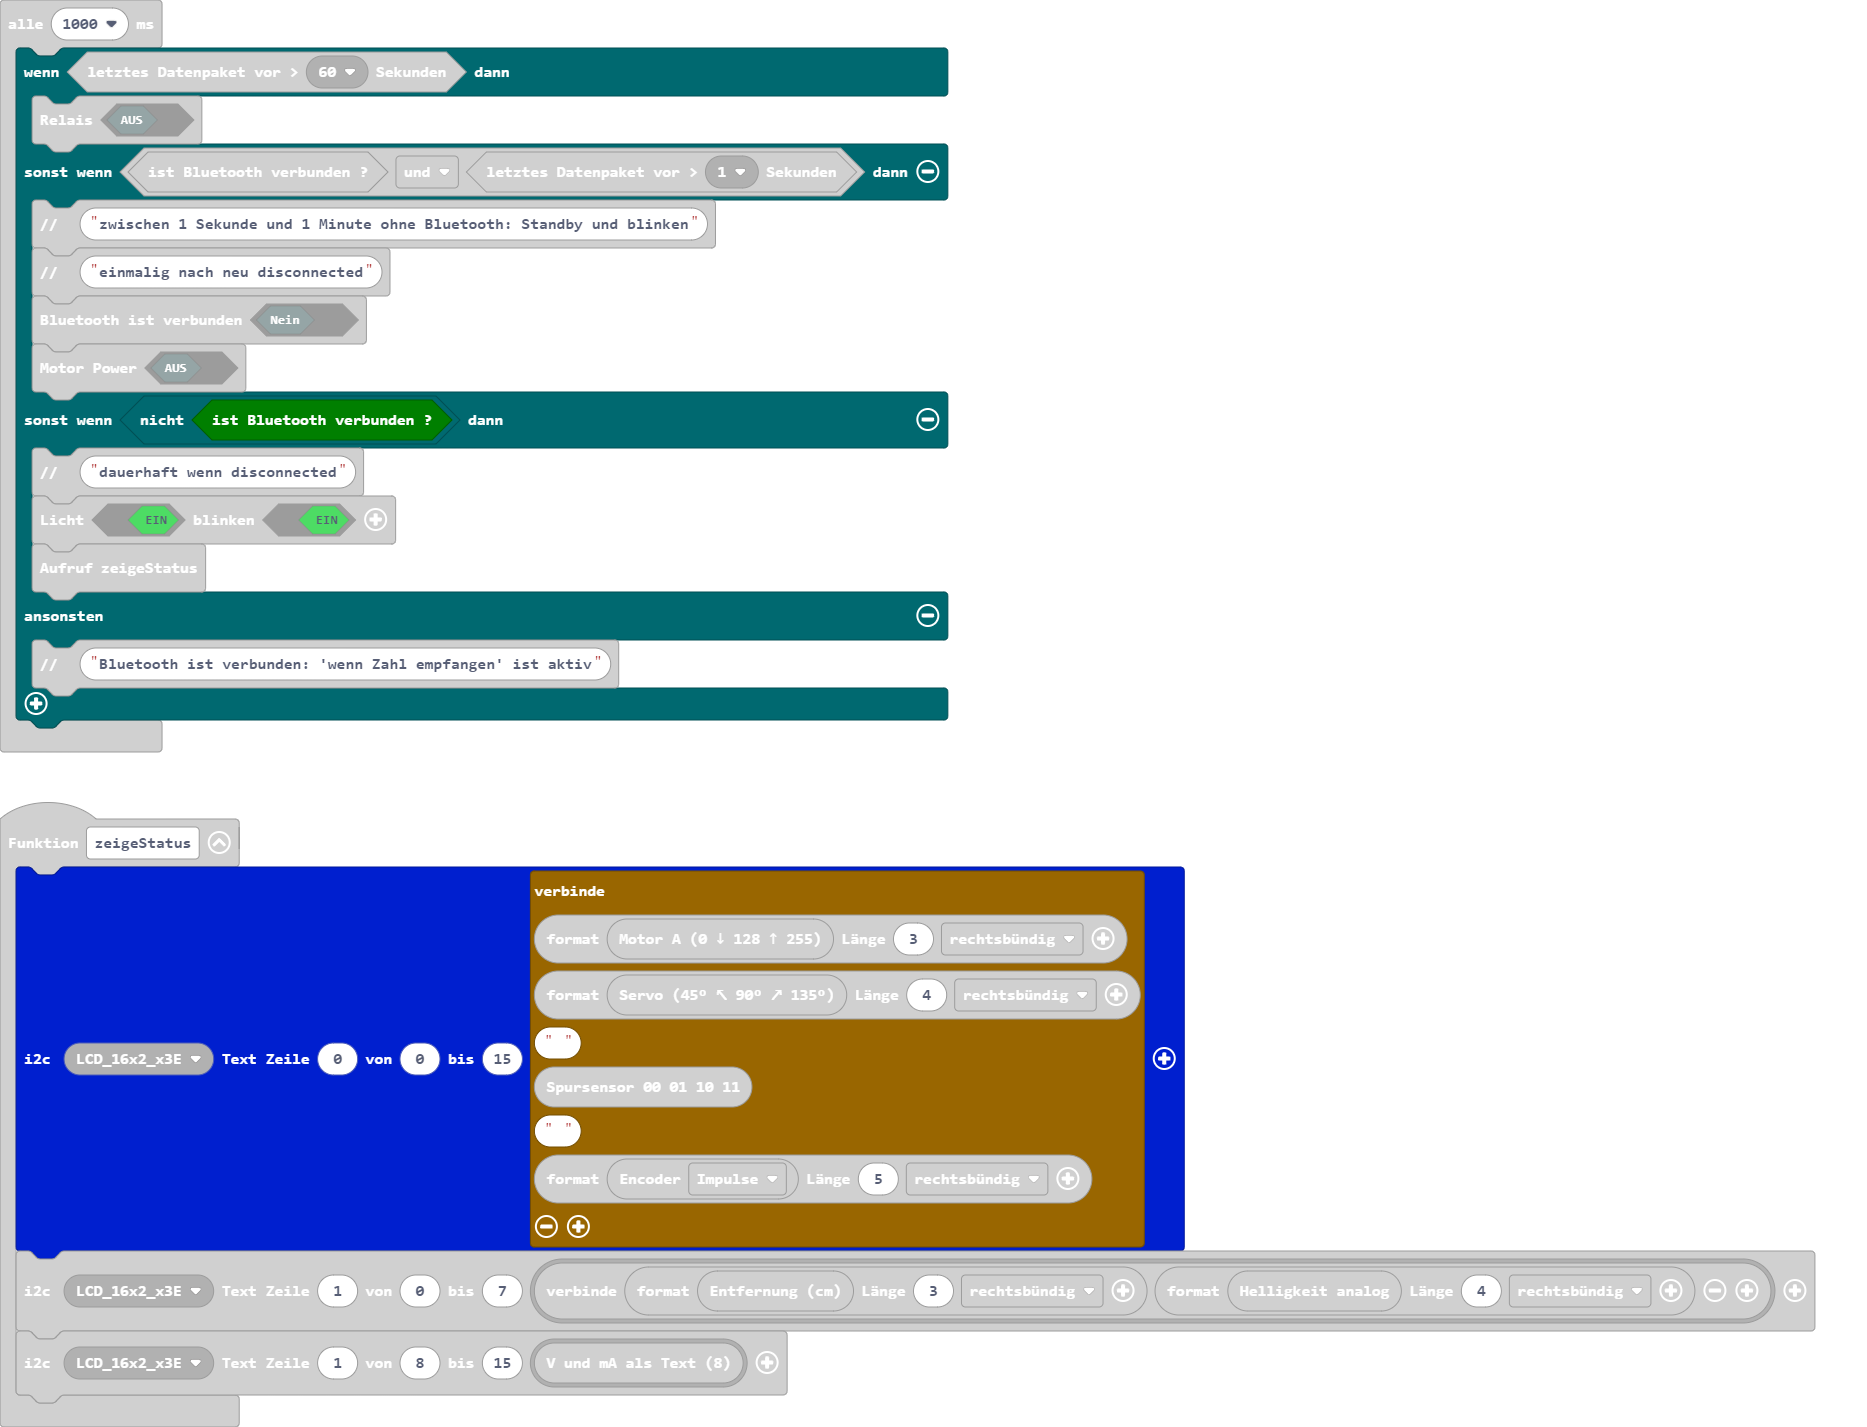
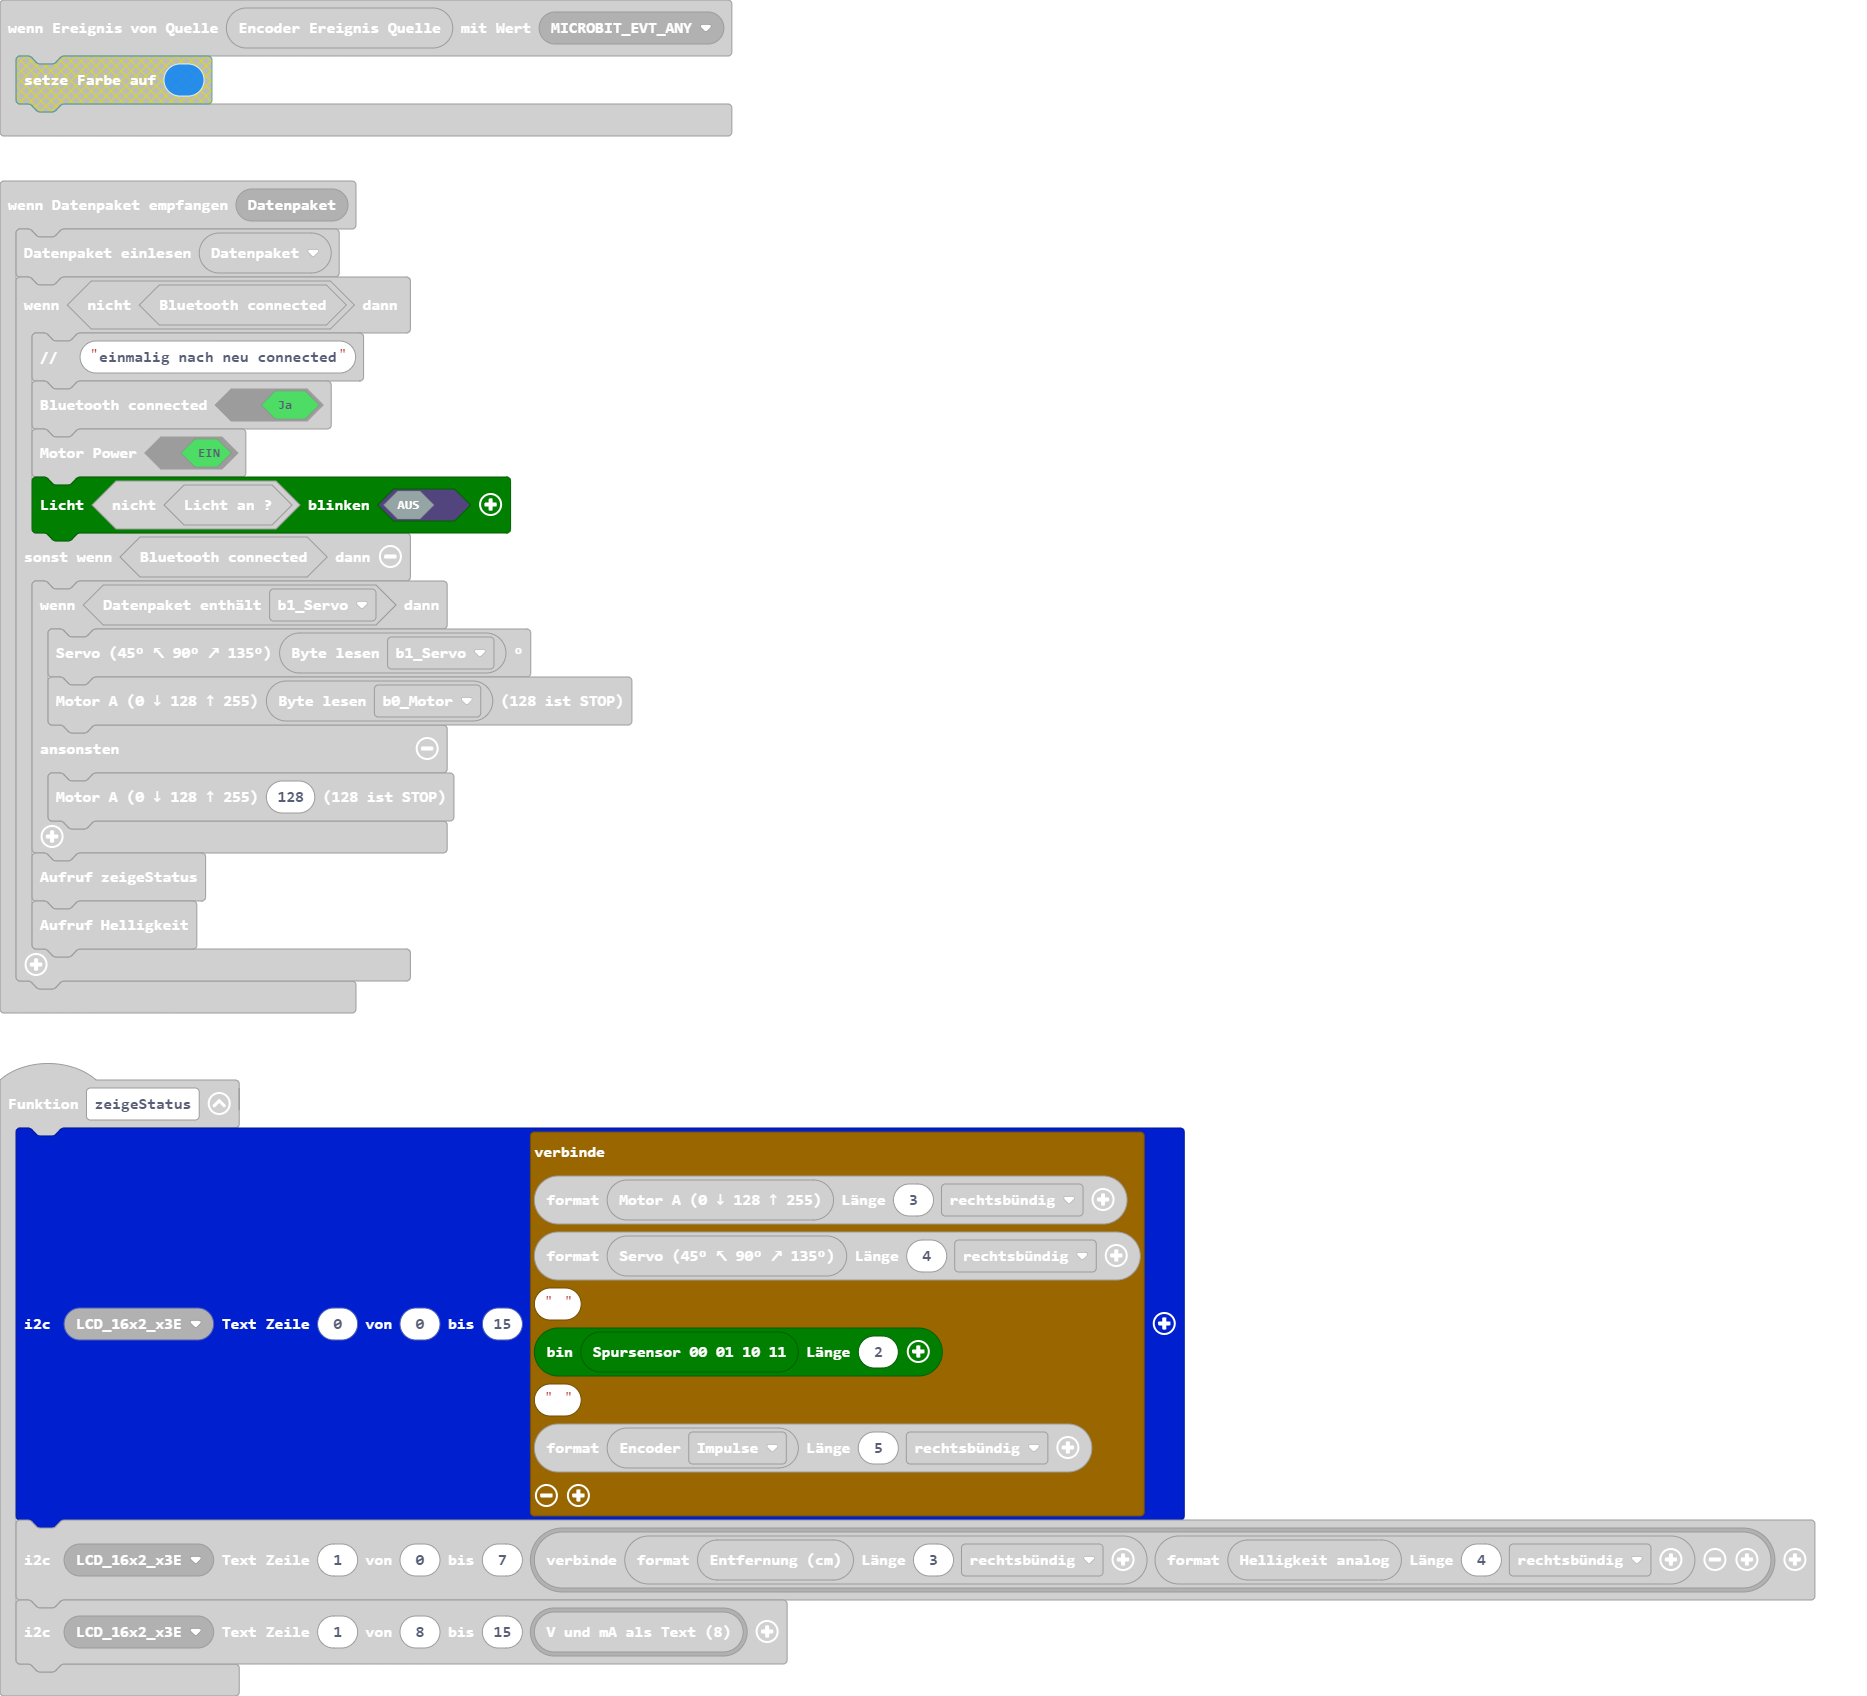
Aktualisiere pxt.json, main.blocks, main.ts

Changed region(s): [[0.0, 0.0, 0.9941, 0.9867]]

diff --git a/main.ts b/main.ts
@@ -1,5 +1,5 @@
 function zeigeStatus () {
-    lcd16x2rgb.writeText(lcd16x2rgb.lcd16x2_eADDR(lcd16x2rgb.eADDR_LCD.LCD_16x2_x3E), 0, 0, 15, "" + car4.format(car4.motorAget(), 3, car4.eAlign.right) + car4.format(car4.servo_get(), 4, car4.eAlign.right) + " " + car4.spursensor_get() + " " + car4.format(car4.encoder_get(car4.eEncoderEinheit.Impulse), 5, car4.eAlign.right))
+    lcd16x2rgb.writeText(lcd16x2rgb.lcd16x2_eADDR(lcd16x2rgb.eADDR_LCD.LCD_16x2_x3E), 0, 0, 15, "" + car4.format(car4.motorAget(), 3, car4.eAlign.right) + car4.format(car4.servo_get(), 4, car4.eAlign.right) + " " + car4.bin(car4.spursensor_get()) + " " + car4.format(car4.encoder_get(car4.eEncoderEinheit.Impulse), 5, car4.eAlign.right))
     lcd16x2rgb.writeText(lcd16x2rgb.lcd16x2_eADDR(lcd16x2rgb.eADDR_LCD.LCD_16x2_x3E), 1, 0, 7, lcd16x2rgb.lcd16x2_text("" + car4.format(car4.entfernung_cm(), 3, car4.eAlign.right) + car4.format(car4.helligkeit_analog(), 4, car4.eAlign.right)))
     lcd16x2rgb.writeText(lcd16x2rgb.lcd16x2_eADDR(lcd16x2rgb.eADDR_LCD.LCD_16x2_x3E), 1, 8, 15, lcd16x2rgb.lcd16x2_text(car4.wattmetertext()))
 }
@@ -9,7 +9,7 @@ radio.onReceivedBuffer(function (Datenpaket) {
         car4.comment("einmalig nach neu connected")
         car4.setConnected(true)
         car4.motorON(true)
-        car4.licht(!(car4.licht_get()))
+        car4.licht(!(car4.licht_get()), false)
     } else if (car4.isConnected()) {
         if (car4.receivedBuffer_Contains(car4.eBuffer.b1_Servo)) {
             car4.servo(car4.receivedBuffer_getUint8(car4.eBuffer.b1_Servo))
@@ -22,7 +22,7 @@ radio.onReceivedBuffer(function (Datenpaket) {
     }
 })
 control.onEvent(car4.encoder_EventSource(), EventBusValue.MICROBIT_EVT_ANY, function () {
-    basic.setLedColor(0x007fff)
+	
 })
 function Helligkeit () {
     if (car4.licht_get() && car4.helligkeit_vergleich(car4.eVergleich.gt, 300)) {
